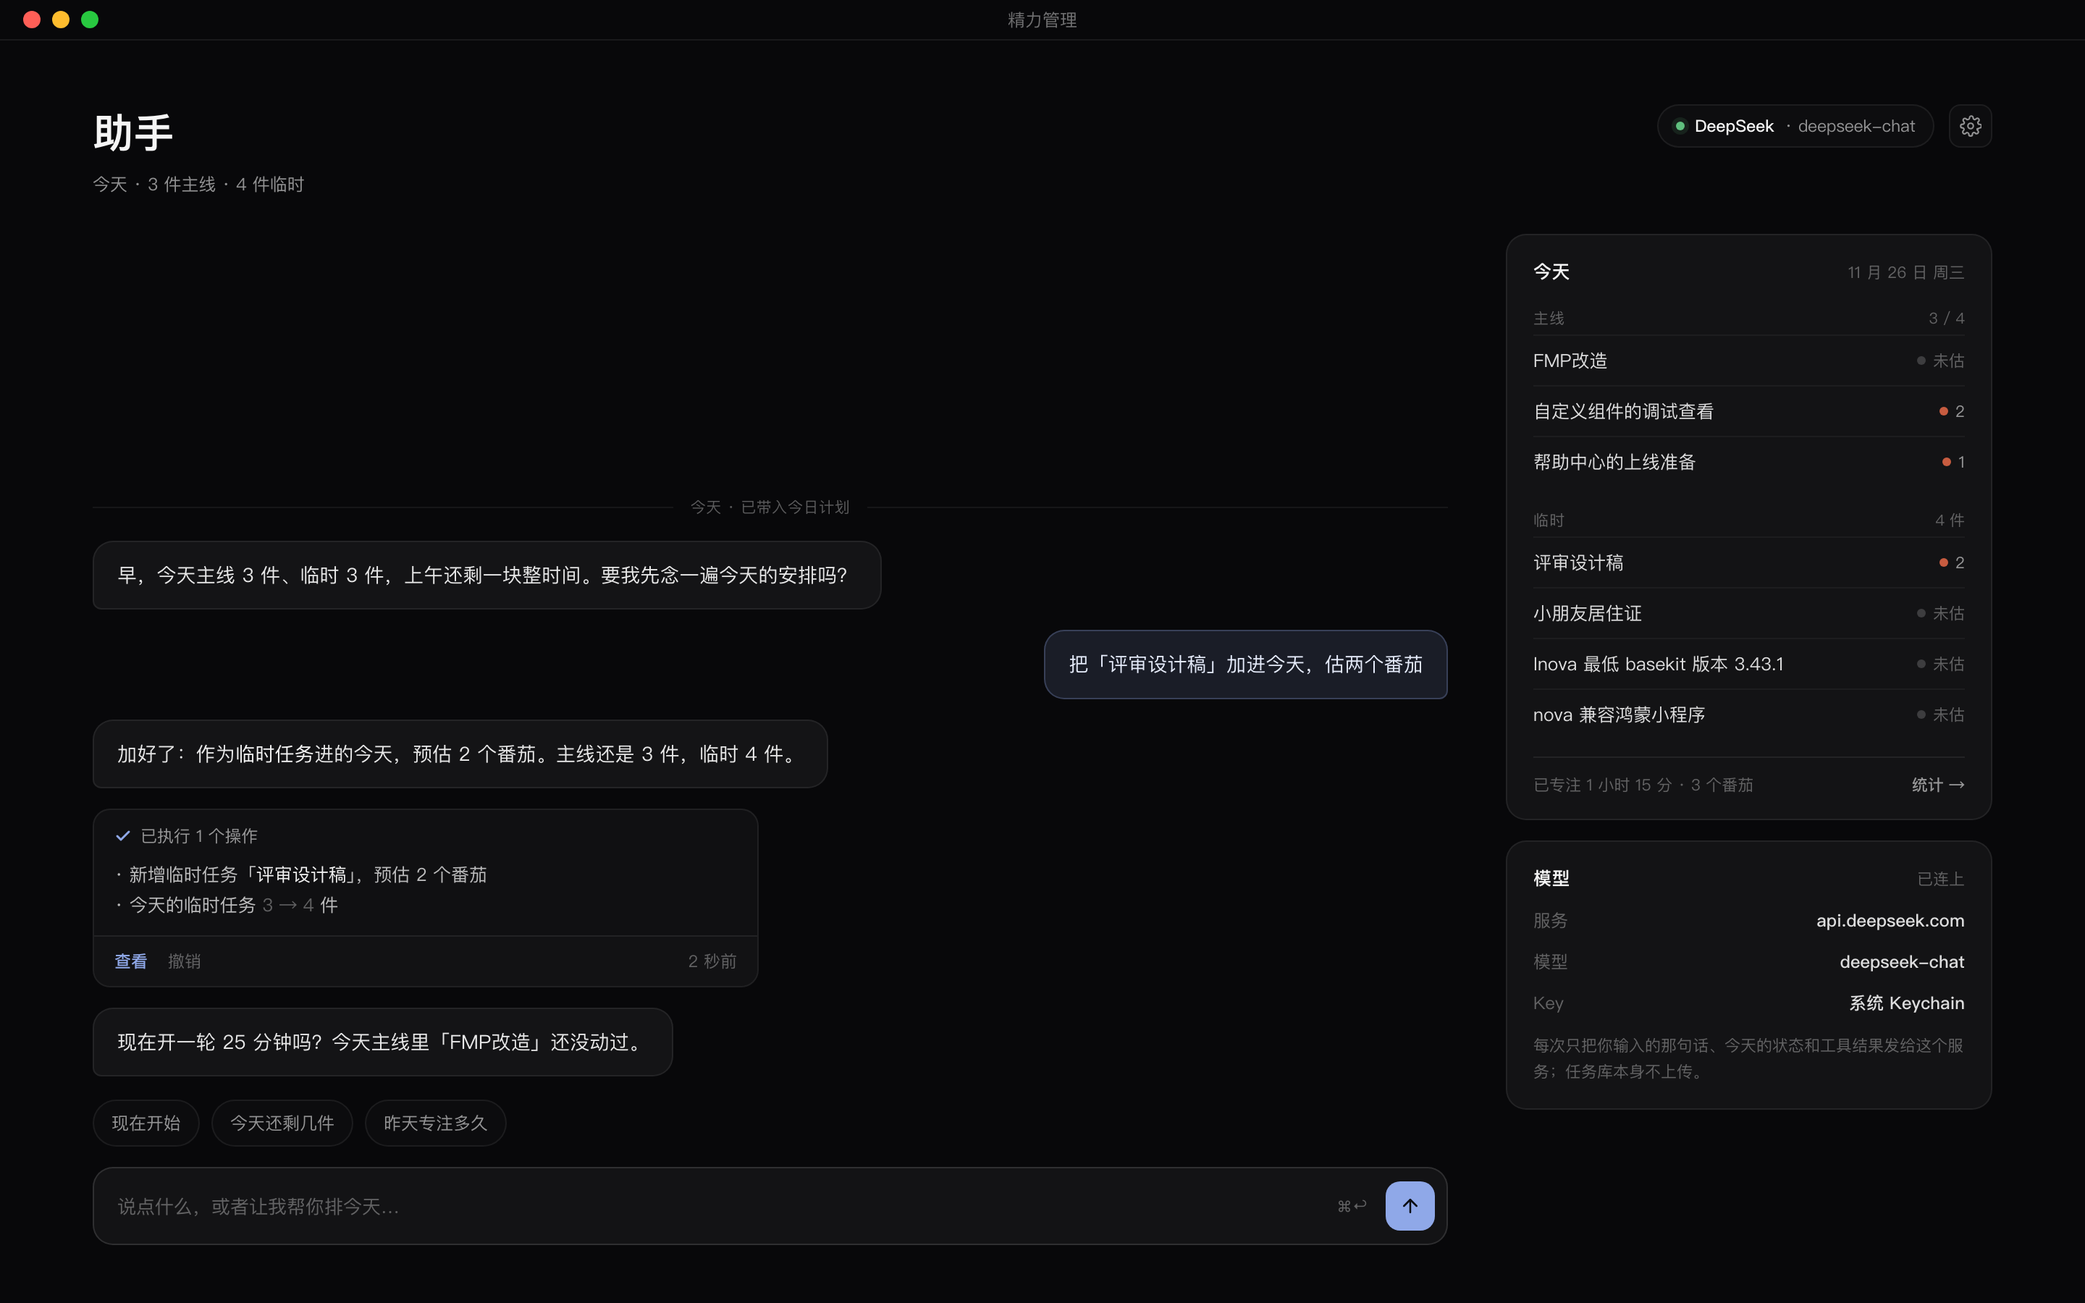
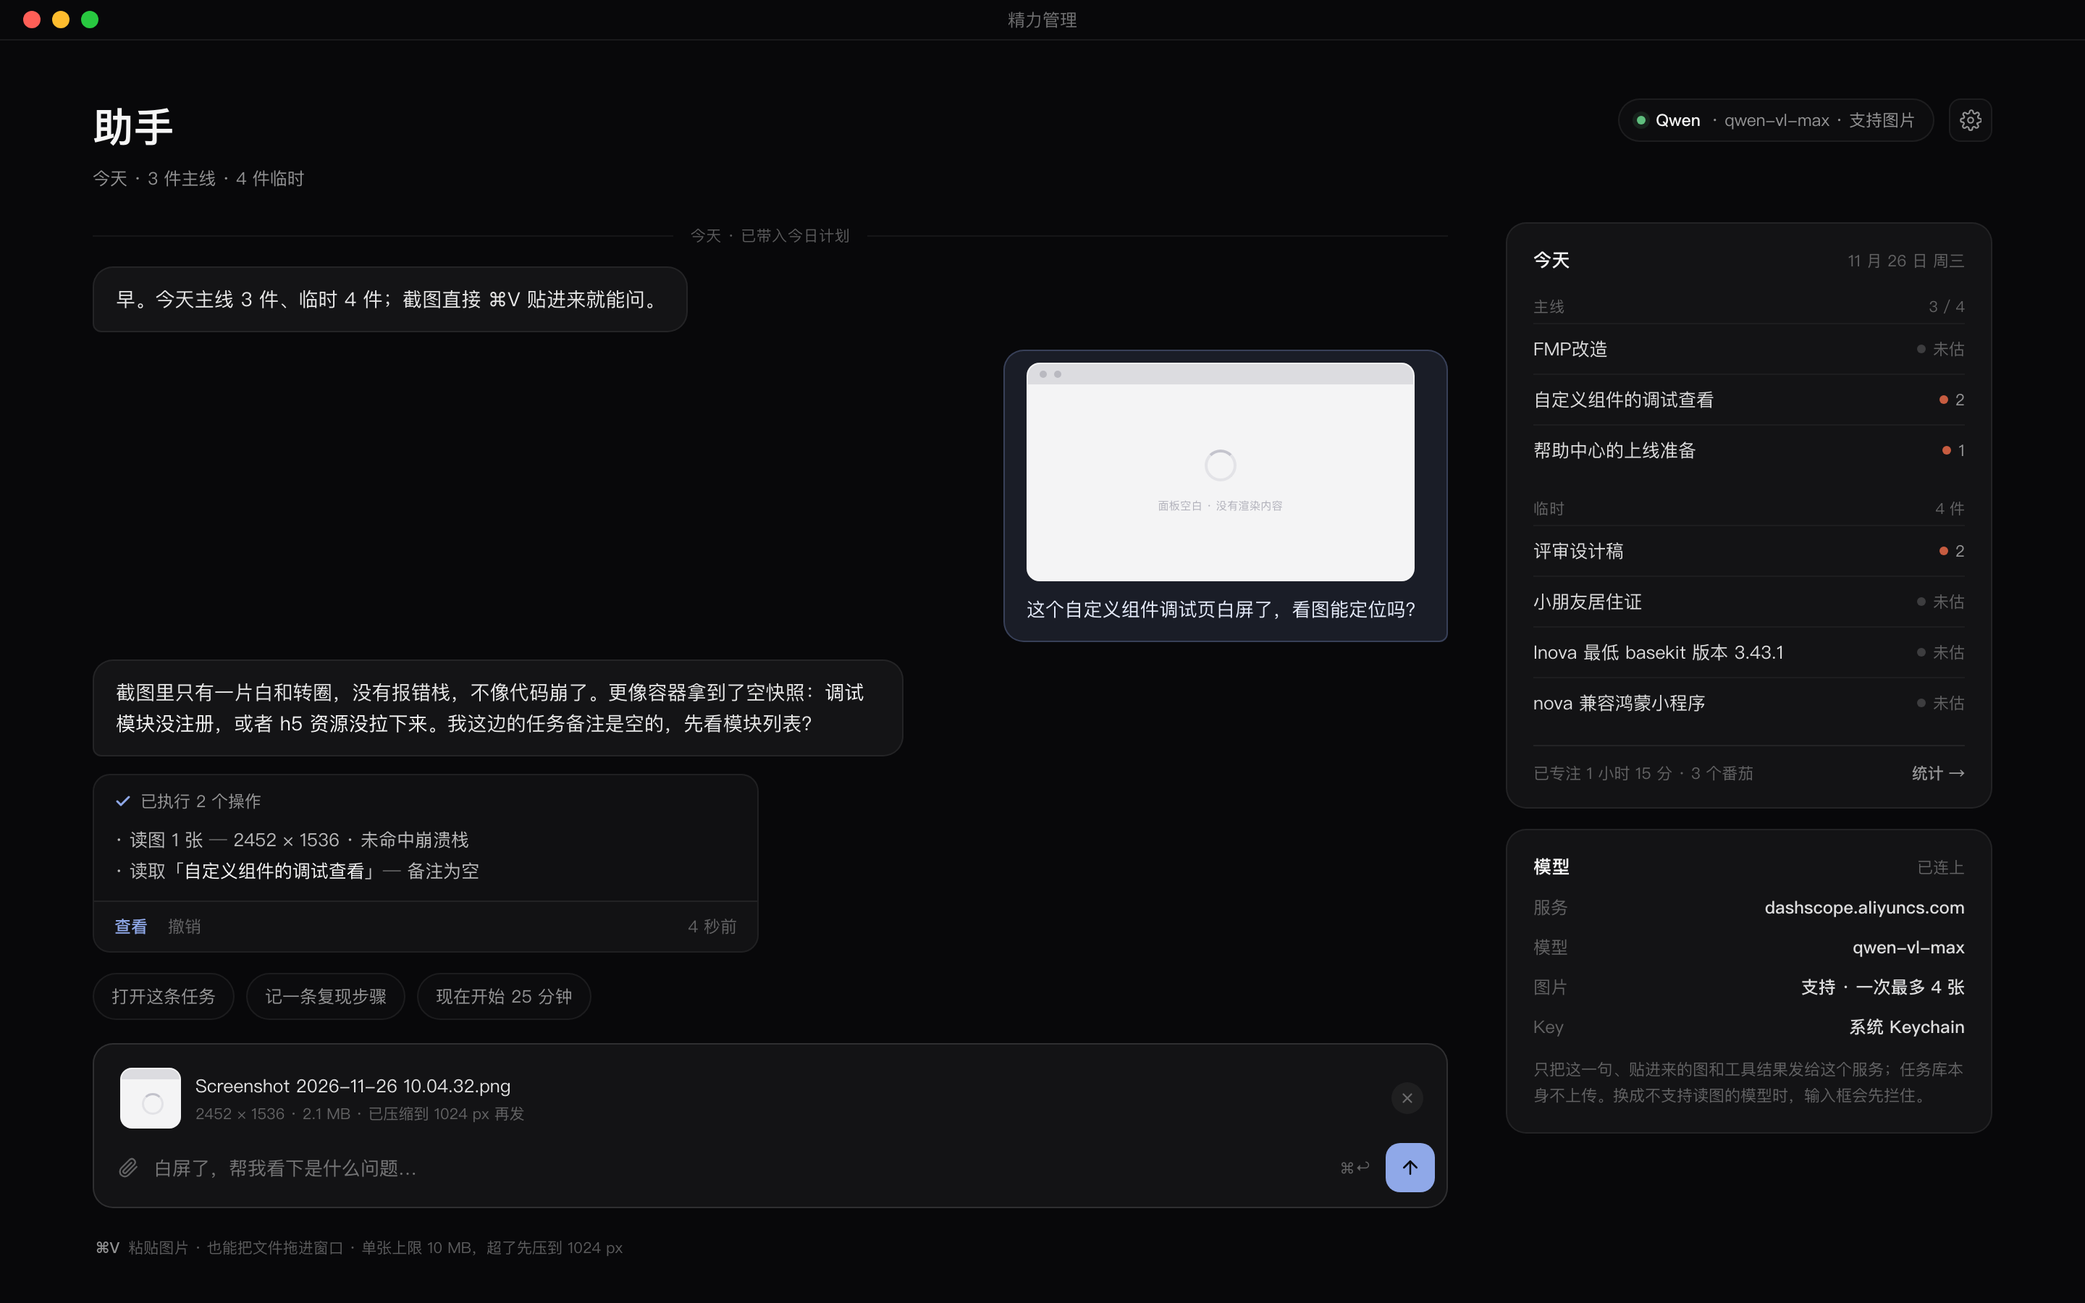
docs(design): add image input to mac assistant screen

diff --git a/Design/mac-assistant.html b/Design/mac-assistant.html
@@ -56,7 +56,7 @@
   /* ---------- 主体 ---------- */
   .content {
     height: calc(900px - 28px);
-    padding: 44px 64px 40px;
+    padding: 40px 64px 34px;
     display: flex;
     flex-direction: column;
   }
@@ -93,19 +93,19 @@
     display: grid;
     grid-template-columns: 1fr 336px;
     gap: 40px;
-    margin-top: 26px;
+    margin-top: 22px;
     flex: 1;
     min-height: 0;
   }
 
   /* ---------- 对话 ---------- */
-  .chat { display: flex; flex-direction: column; gap: 14px; min-height: 0; }
+  .chat { display: flex; flex-direction: column; gap: 12px; min-height: 0; }
   /* 对话贴着输入框往下排，历史往上滚 */
-  .scroll { display: flex; flex-direction: column; gap: 14px; margin-top: auto; }
+  .scroll { display: flex; flex-direction: column; gap: 12px; margin-top: auto; }
 
   .me, .ai {
     max-width: 560px;
-    padding: 12px 16px;
+    padding: 11px 15px;
     border-radius: 14px;
     font-size: 13.5px;
     line-height: 1.6;
@@ -126,6 +126,24 @@
     border-bottom-left-radius: 6px;
   }
   .ai .strong { color: var(--text); }
+
+  /* 消息里的图片 */
+  .shot {
+    display: block;
+    width: 268px;
+    border-radius: 9px;
+    border: 1px solid rgba(255, 255, 255, 0.1);
+    overflow: hidden;
+    margin-bottom: 9px;
+  }
+  .shot { background: #f4f4f5; }
+  .shot .bar { display: flex; align-items: center; gap: 5px; height: 14px; background: #dcdce0; padding: 0 8px; }
+  .shot .bar i { width: 5px; height: 5px; border-radius: 50%; background: #b9b9c0; display: block; }
+  .shot .canvas { display: flex; flex-direction: column; align-items: center; justify-content: center; gap: 11px; height: calc(150px - 15px); }
+  .shot .ring { width: 22px; height: 22px; border-radius: 50%; border: 2px solid #e3e3e7; border-top-color: #c4c4cd; }
+  .shot .shotnote { font-size: 7.5px; color: #b0b0ba; letter-spacing: 0.2px; }
+  .me .cap { font-size: 13px; display: block; }
+  .me .shot { margin: -3px 0 9px; }
 
   .tool {
     align-self: flex-start;
@@ -163,7 +181,7 @@
 
   .divider {
     display: flex; align-items: center; gap: 12px;
-    margin: 4px 0 2px;
+    margin: 2px 0;
     font-size: 10.5px; color: var(--text3); letter-spacing: 0.3px;
   }
   .divider::before, .divider::after { content: ""; height: 1px; background: rgba(255, 255, 255, 0.06); flex: 1; }
@@ -178,24 +196,66 @@
     background: rgba(255, 255, 255, 0.015);
   }
 
-  .inputbar {
-    height: 54px;
-    display: flex;
-    align-items: center;
-    gap: 12px;
-    padding: 0 8px 0 16px;
+  /* ---------- 输入区（支持粘贴图片） ---------- */
+  .composer {
+    margin-top: 4px;
     background: var(--card-2);
     border: 1px solid var(--line-strong);
     border-radius: 14px;
+    padding: 10px 8px 10px 10px;
   }
-  .inputbar .ph { font-size: 13px; color: var(--text3); }
-  .inputbar .cmd { margin-left: auto; font-size: 10.5px; color: var(--text3); letter-spacing: 0.4px; }
+  .attach {
+    display: flex;
+    align-items: center;
+    gap: 10px;
+    padding: 6px 8px 10px;
+  }
+  .attach .thumb {
+    width: 42px; height: 42px;
+    border-radius: 8px;
+    border: 1px solid rgba(255, 255, 255, 0.12);
+    overflow: hidden;
+    flex: none;
+    background: #24242a;
+  }
+  .attach .thumb { background: #f4f4f5; position: relative; }
+  .attach .thumb::before { content: ""; position: absolute; left: 0; right: 0; top: 0; height: 7px; background: #dcdce0; }
+  .attach .thumb::after {
+    content: ""; position: absolute; left: 50%; top: 56%; width: 12px; height: 12px;
+    margin: -6px 0 0 -6px; border-radius: 50%;
+    border: 1.6px solid #e2e2e6; border-top-color: #c2c2cb;
+  }
+  .attach .meta { min-width: 0; }
+  .attach .name { font-size: 12.5px; color: rgba(255, 255, 255, 0.88); }
+  .attach .sz { margin-top: 3px; font-size: 10.5px; color: var(--text3); }
+  .attach .x {
+    margin-left: auto;
+    width: 22px; height: 22px;
+    border-radius: 50%;
+    display: flex; align-items: center; justify-content: center;
+    color: var(--text3);
+    background: rgba(255, 255, 255, 0.05);
+    flex: none;
+  }
+
+  .inputrow { display: flex; align-items: center; gap: 10px; padding: 0 0 0 6px; }
+  .inputrow .ph { font-size: 13px; color: rgba(255, 255, 255, 0.42); }
+  .inputrow .cmd { margin-left: auto; font-size: 10.5px; color: var(--text3); letter-spacing: 0.4px; }
   .send {
     width: 34px; height: 34px; border-radius: 10px;
     background: var(--accent);
     color: #0b0d13;
     display: flex; align-items: center; justify-content: center;
+    flex: none;
   }
+  .clip { color: var(--text3); display: flex; align-items: center; }
+
+  .hint {
+    display: flex; align-items: center; gap: 6px;
+    margin: 8px 2px 0;
+    font-size: 10.5px; color: var(--text3);
+  }
+  .hint b { font-weight: 500; color: var(--text2); }
 
   /* ---------- 右栏 ---------- */
   .rail { display: flex; flex-direction: column; gap: 14px; }
@@ -228,6 +288,7 @@
   .row .est i { width: 6px; height: 6px; border-radius: 50%; background: var(--tomato); display: block; }
   .row .est.none { color: var(--text3); }
   .row .est.none i { background: rgba(255, 255, 255, 0.18); }
+  .row .est.vision i { background: var(--accent); }
 
   .foot {
     display: flex; align-items: center;
@@ -237,10 +298,12 @@
   }
   .foot b { margin-left: auto; font-weight: 500; color: var(--text2); }
 
-  .model-card .kv { display: flex; align-items: center; margin-top: 12px; font-size: 12px; }
+  .model-card .kv { display: flex; align-items: center; margin-top: 11px; font-size: 12px; }
   .model-card .kv span { color: var(--text3); }
   .model-card .kv b { margin-left: auto; font-weight: 500; color: rgba(255, 255, 255, 0.86); }
+  .model-card .kv b.off { color: var(--text3); font-weight: 400; }
   .model-card p { margin: 12px 0 0; font-size: 11px; line-height: 1.65; color: var(--text3); }
+  .model-card p code { font-family: "SF Mono", ui-monospace, monospace; font-size: 10.5px; color: var(--text2); }
 
   /* ---------- 模型配置 ---------- */
   #config { position: relative; }
@@ -276,6 +339,16 @@
   }
   .field .box.ph { color: var(--text3); }
   .field .box .dots { letter-spacing: 2px; color: var(--text2); }
+  .field .box .pill-on {
+    margin-left: auto;
+    font-size: 10.5px;
+    color: var(--accent);
+    border: 1px solid rgba(143, 168, 232, 0.3);
+    background: rgba(143, 168, 232, 0.1);
+    border-radius: 999px;
+    padding: 3px 9px;
+    letter-spacing: 0;
+  }
   .note {
     margin-top: 16px;
     font-size: 11px;
@@ -289,7 +362,7 @@
     border-top: 1px solid var(--line);
     background: rgba(255, 255, 255, 0.015);
   }
-  .dialog .df .hint { font-size: 11px; color: var(--text3); }
+  .dialog .df .hint { margin: 0; font-size: 11px; color: var(--text3); }
   .btn {
     height: 32px; padding: 0 16px;
     display: flex; align-items: center;
@@ -301,14 +374,14 @@
 
   .spacer { height: 60px; background: #000; }
 
-  /* 截图用：?/#config 时只显示模型配置那一屏（Chrome --screenshot 不跳锚点） */
+  /* 截图用：#config 时只显示模型配置那一屏（Chrome --screenshot 不跳锚点） */
   body:has(#config:target) #assistant,
   body:has(#config:target) .spacer { display: none; }
 </style>
 </head>
 <body>
 
-<!-- ==================== 01 · 助手 ==================== -->
+<!-- ==================== 01 · 助手（含图片输入） ==================== -->
 <div class="win" id="assistant">
   <div class="titlebar">
     <div class="lights"><i></i><i></i><i></i></div>
@@ -322,7 +395,7 @@
         <div class="sub">今天 · 3 件主线 · 4 件临时</div>
       </div>
       <div class="right">
-        <div class="model-pill"><span class="dot"></span><b>DeepSeek</b> · deepseek-chat</div>
+        <div class="model-pill"><span class="dot"></span><b>Qwen</b> · qwen-vl-max · 支持图片</div>
         <div class="icon-btn">
           <svg width="15" height="15" viewBox="0 0 24 24" fill="none" stroke="currentColor" stroke-width="1.7" stroke-linecap="round" stroke-linejoin="round"><circle cx="12" cy="12" r="3"/><path d="M19.4 15a1.7 1.7 0 0 0 .3 1.9l.1.1a2 2 0 1 1-2.8 2.8l-.1-.1a1.7 1.7 0 0 0-2.9 1.2v.2a2 2 0 1 1-4 0v-.1a1.7 1.7 0 0 0-1.1-1.5 1.7 1.7 0 0 0-1.9.3l-.1.1a2 2 0 1 1-2.8-2.8l.1-.1a1.7 1.7 0 0 0-1.2-2.9H3a2 2 0 1 1 0-4h.2a1.7 1.7 0 0 0 1.4-2.8l-.1-.1a2 2 0 1 1 2.8-2.8l.1.1a1.7 1.7 0 0 0 1.9.3h.1A1.7 1.7 0 0 0 10.8 3V3a2 2 0 1 1 4 0v.2a1.7 1.7 0 0 0 2.9 1.2l.1-.1a2 2 0 1 1 2.8 2.8l-.1.1a1.7 1.7 0 0 0-.3 1.9v.1a1.7 1.7 0 0 0 1.5 1H22a2 2 0 1 1 0 4h-.2a1.7 1.7 0 0 0-1.4 1.1z"/></svg>
         </div>
@@ -333,33 +406,61 @@
       <div class="chat">
         <div class="scroll">
           <div class="divider"><span>今天 · 已带入今日计划</span></div>
-          <div class="ai">早，今天主线 3 件、临时 3 件，上午还剩一块整时间。要我先念一遍今天的安排吗？</div>
-          <div class="me">把「评审设计稿」加进今天，估两个番茄</div>
-          <div class="ai">加好了：作为<span class="strong">临时任务</span>进的今天，预估 2 个番茄。主线还是 3 件，临时 4 件。</div>
+
+          <div class="ai">早。今天主线 3 件、临时 4 件；截图直接 ⌘V 贴进来就能问。</div>
+
+          <div class="me">
+            <span class="shot">
+              <span class="bar"><i></i><i></i></span>
+              <span class="canvas"><span class="ring"></span><span class="shotnote">面板空白 · 没有渲染内容</span></span>
+            </span>
+            <span class="cap">这个自定义组件调试页白屏了，看图能定位吗？</span>
+          </div>
+
+          <div class="ai">截图里只有一片白和转圈，没有报错栈，不像代码崩了。更像容器拿到了空快照：<span class="strong">调试模块没注册</span>，或者 <span class="strong">h5 资源没拉下来</span>。我这边的任务备注是空的，先看模块列表？</div>
 
           <div class="tool">
             <div class="h">
               <svg width="12" height="12" viewBox="0 0 24 24" fill="none" stroke="currentColor" stroke-width="3" stroke-linecap="round" stroke-linejoin="round"><path d="M20 6 9 17l-5-5"/></svg>
-              已执行 1 个操作
+              已执行 2 个操作
             </div>
             <div class="b">
-              · 新增临时任务「<em>评审设计稿</em>」，预估 2 个番茄<br>
-              · 今天的临时任务 <span class="k">3 → 4</span> 件
+              · 读图 1 张 <span class="k">—</span> 2452 × 1536 · 未命中崩溃栈<br>
+              · 读取「<em>自定义组件的调试查看</em>」<span class="k">—</span> 备注为空
             </div>
-            <div class="a"><b>查看</b><span>撤销</span><span class="time">2 秒前</span></div>
+            <div class="a"><b>查看</b><span>撤销</span><span class="time">4 秒前</span></div>
           </div>
 
-          <div class="ai">现在开一轮 25 分钟吗？今天主线里「FMP改造」还没动过。</div>
-
-          <div class="chips"><span class="chip">现在开始</span><span class="chip">今天还剩几件</span><span class="chip">昨天专注多久</span></div>
+          <div class="chips"><span class="chip">打开这条任务</span><span class="chip">记一条复现步骤</span><span class="chip">现在开始 25 分钟</span></div>
         </div>
 
-        <div class="inputbar">
-          <span class="ph">说点什么，或者让我帮你排今天…</span>
-          <span class="cmd">⌘↩</span>
-          <div class="send">
-            <svg width="15" height="15" viewBox="0 0 24 24" fill="none" stroke="currentColor" stroke-width="2" stroke-linecap="round" stroke-linejoin="round"><path d="M12 19V5"/><path d="m5 12 7-7 7 7"/></svg>
+        <!-- 输入区：可以 ⌘V 粘贴图片，也可以拖进来 -->
+        <div class="composer">
+          <div class="attach">
+            <span class="thumb"><span class="mini"></span></span>
+            <div class="meta">
+              <div class="name">Screenshot 2026-11-26 10.04.32.png</div>
+              <div class="sz">2452 × 1536 · 2.1 MB · 已压缩到 1024 px 再发</div>
+            </div>
+            <span class="x">
+              <svg width="11" height="11" viewBox="0 0 24 24" fill="none" stroke="currentColor" stroke-width="2.4" stroke-linecap="round"><path d="M18 6 6 18M6 6l12 12"/></svg>
+            </span>
           </div>
+
+          <div class="inputrow">
+            <span class="clip">
+              <svg width="15" height="15" viewBox="0 0 24 24" fill="none" stroke="currentColor" stroke-width="1.8" stroke-linecap="round" stroke-linejoin="round"><path d="M21.4 11.05 12.3 20.2a5.5 5.5 0 0 1-7.8-7.8l9.2-9.2a3.7 3.7 0 0 1 5.2 5.2l-9.2 9.2a1.8 1.8 0 0 1-2.6-2.6l8.5-8.5"/></svg>
+            </span>
+            <span class="ph">白屏了，帮我看下是什么问题…</span>
+            <span class="cmd">⌘↩</span>
+            <div class="send">
+              <svg width="15" height="15" viewBox="0 0 24 24" fill="none" stroke="currentColor" stroke-width="2" stroke-linecap="round" stroke-linejoin="round"><path d="M12 19V5"/><path d="m5 12 7-7 7 7"/></svg>
+            </div>
+          </div>
+        </div>
+
+        <div class="hint">
+          <b>⌘V</b> 粘贴图片 · 也能把文件拖进窗口 · 单张上限 10 MB，超了先压到 1024 px
         </div>
       </div>
 
@@ -383,10 +484,11 @@
 
         <div class="panel model-card">
           <div class="ph-head"><h3>模型</h3><span>已连上</span></div>
-          <div class="kv"><span>服务</span><b>api.deepseek.com</b></div>
-          <div class="kv"><span>模型</span><b>deepseek-chat</b></div>
+          <div class="kv"><span>服务</span><b>dashscope.aliyuncs.com</b></div>
+          <div class="kv"><span>模型</span><b>qwen-vl-max</b></div>
+          <div class="kv"><span>图片</span><b>支持 · 一次最多 4 张</b></div>
           <div class="kv"><span>Key</span><b>系统 Keychain</b></div>
-          <p>每次只把你输入的那句话、今天的状态和工具结果发给这个服务；任务库本身不上传。</p>
+          <p>只把这一句、贴进来的图和工具结果发给这个服务；任务库本身不上传。换成不支持读图的模型时，输入框会先拦住。</p>
         </div>
       </div>
     </div>
@@ -411,11 +513,11 @@
     <div class="dc">
       <div class="field">
         <label>服务地址</label>
-        <div class="box">https://api.deepseek.com/v1</div>
+        <div class="box">https://dashscope.aliyuncs.com/compatible-mode/v1</div>
       </div>
       <div class="field">
         <label>模型名</label>
-        <div class="box">deepseek-chat</div>
+        <div class="box">qwen-vl-max<span class="pill-on">支持图片</span></div>
       </div>
       <div class="field">
         <label>API Key</label>
@@ -427,8 +529,9 @@
       </div>
 
       <div class="note">
-        只要 OpenAI 兼容的 <code>/chat/completions</code> 都能用：DeepSeek、vLLM、Ollama、OpenCode Go。<br>
-        Key 存系统 Keychain（<code>com.freedom-shen.jingli.llm.apikey</code>），其余存 UserDefaults；仓库里永远没有密钥。
+        只要 OpenAI 兼容的 <code>/chat/completions</code> 都能用：qwen-vl、gpt-4o、vLLM、Ollama。<br>
+        能不能贴图取决于这个模型吃不吃图；不支持时输入框会提示换模型。<br>
+        Key 存系统 Keychain（<code>com.freedom-shen.jingli.llm.apikey</code>），其余存 UserDefaults。
       </div>
     </div>
 
@@ -443,12 +546,6 @@
 
 <script>
   document.getElementById('configBg').innerHTML = document.getElementById('assistant').innerHTML;
-
-  // 截图用：带 #frame-id 打开时把那一屏滚到视口顶部（Chrome --screenshot 不会自己跳锚点）
-  if (location.hash.length > 1) {
-    const target = document.querySelector(location.hash);
-    if (target) requestAnimationFrame(() => target.scrollIntoView({ block: 'start' }));
-  }
 </script>
 </body>
 </html>

diff --git a/Design/README.md b/Design/README.md
@@ -50,8 +50,8 @@ done
 
 | 屏 | 锚点 | 产物 |
 |---|---|---|
-| 助手（对话 + 今日上下文 + 模型状态） | `#assistant` | `preview/05-assistant.png` |
-| 模型配置（Key 进 Keychain） | `#config` | `preview/06-model-config.png` |
+| 助手（对话 + 图片输入 + 今日上下文 + 模型状态） | `#assistant` | `preview/05-assistant.png` |
+| 模型配置（Key 进 Keychain，标注模型是否吃图） | `#config` | `preview/06-model-config.png` |
 
 ```bash
 CHROME="/Applications/Google Chrome.app/Contents/MacOS/Google Chrome"
@@ -64,6 +64,8 @@ CHROME="/Applications/Google Chrome.app/Contents/MacOS/Google Chrome"
 ```
 
 `#config` 靠 `:target` 隐藏另一屏——Chrome 的 `--screenshot` 不会自己跳锚点。
+
+图片输入的口径：`⌘V` 粘贴、拖文件进窗口、点回形针三个入口都进同一个附件区；单张 10 MB 上限，超过先缩到 1024 px 再发（只缩发出去的那份，原图不动）；一次最多 4 张。能不能贴图取决于模型——`ModelProvider` 的 `ChatMessage` 需要一种带图片的 content，配置页用一个「支持图片」标记告诉用户当前模型吃不吃图，不吃就在输入框拦住。
 
 设计口径：助手调的是 iOS 那套 `JingliAgent`（同一份 `ToolCatalog`、同一个 `AgentCommandRouter`），所以每条写操作都落成可查看 / 可撤销的卡片；模型配置只多一个「测试连接」，规则（4 件主线、临时不挂项目、预估 1–32）仍然在代码里兜底，不靠提示词。
 
